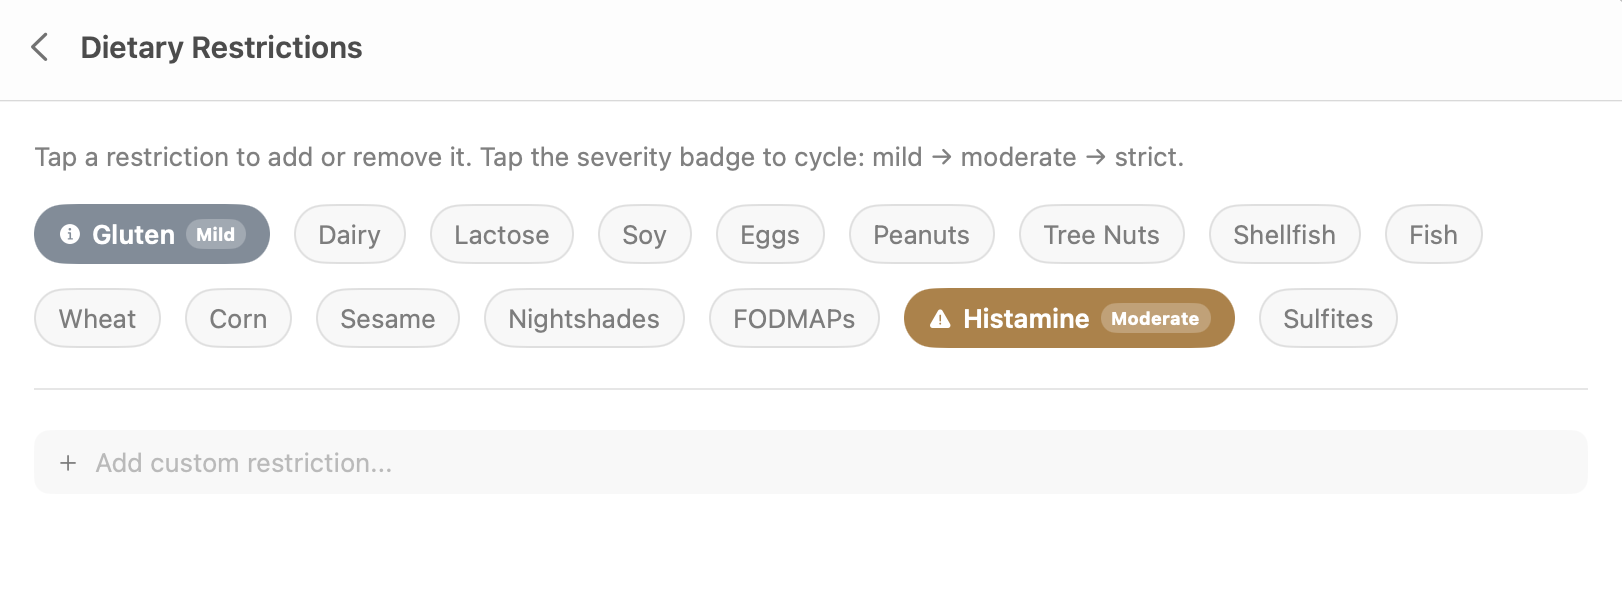
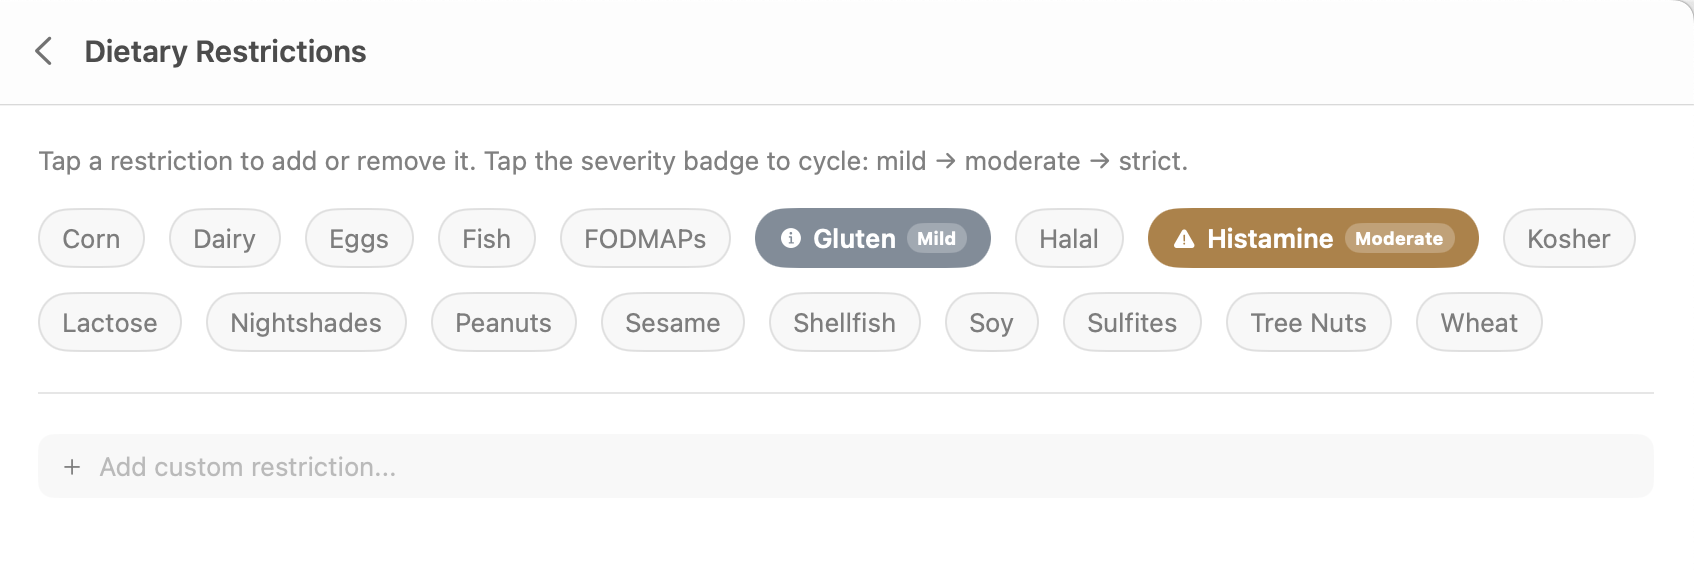
Update restrictions screenshot with Halal and Kosher

diff --git a/index.html b/index.html
@@ -538,7 +538,7 @@
     <!-- Step 2: Dietary Restrictions -->
     <section class="feature reverse">
         <div class="feature-screenshot">
-            <img src="images/screenshot-restrictions.webp" alt="Dietary restrictions view showing Gluten set to Mild and Histamine set to Moderate, demonstrating different severity levels across 16 common restrictions" width="1622" height="610" loading="lazy" tabindex="0" role="button" aria-label="View larger: dietary restrictions screenshot">
+            <img src="images/screenshot-restrictions.webp" alt="Dietary restrictions view showing Gluten set to Mild and Histamine set to Moderate, demonstrating different severity levels across 18 common restrictions including Halal and Kosher" width="1694" height="572" loading="lazy" tabindex="0" role="button" aria-label="View larger: dietary restrictions screenshot">
         </div>
         <div class="feature-text">
             <span class="step">Step 2</span>
